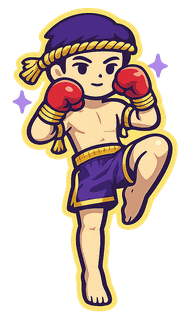
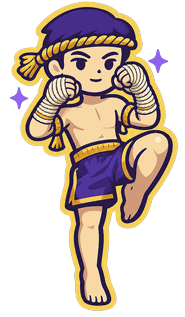
New Muay Thai artwork: traditional hand wraps, not modern gloves (sw v539)
Owner-supplied replacement. Letterboxed onto the live 185x317 canvas rather than
shipped at its own aspect (613x1085 = 0.560 vs 0.584): .fluency-img is
width:158px/height:auto, so the file ratio decides the rendered height, and
topics.html carries width="150" height="257" -- that same ratio -- to reserve the
box before decode. Native aspect would have rendered ~11px taller than the
reservation and reintroduced the layout shift those attributes exist to prevent.
The ~8px of transparent side padding is invisible; a shift is not.

15.5 KB against 16.3 KB, so the re-compression is genuinely smaller, as the
precache rule requires. 256 colours over 128 (14.9 KB) -- 0.6 KB is not worth
colour fidelity on artwork.

The VERSION bump is load-bearing: muaythai.png is in PRECACHE and precached
sub-resources have been cache-first since v292, so replacing the file without one
leaves every returning device on the old art indefinitely.

Measured in the browser, not the diff: 158.0 x 270.7 at desktop and 140.6 x 240.8
at a 386px viewport (the max-width:42% cap), ratio 0.5836 = the file ratio at both,
no horizontal overflow. The full-resolution original is kept at
"marketing images/muaythai-authentic-original.png" for the backup mirror.
test_sw_precache 26, test_sw_cachefirst 53, test_topics_page 40.

diff --git a/sw.js b/sw.js
@@ -33,7 +33,7 @@
    this is LOAD-BEARING, not just tidy: change a precached file without bumping
    and clients keep serving the old copy.
    ============================================================ */
-const VERSION = 'v538';   // v538: TWO LIVE READING-SECTION FAULTS. (1) AUDIO_VER 3 -> 4. All 210 reading clips became Andovar studio recordings on 2026-09-15 and NOBODY was told: dlDownload stores AUDIO_VER in its manifest and the hub card offers an update only when they differ, so the new audio shipped while devices kept serving cached TTS. It also fixes the edge -- an upload purges read/x.mp3 but Cloudflare keys on the query string, so read/x.mp3?v=3 kept the old bytes; a new query string misses every cache at once. ⛔ BUMP THIS ON EVERY READING-AUDIO RELEASE. (2) A fetch that never settles froze the whole course download ONE SHORT -- the pump loop does active--/pump() on every path, but a request that neither resolves nor rejects reaches none of them, so the counter stopped at 207 of 208 for ever with no error. Every clip was on R2 and returned a clean 200 when probed, which ruled the server out. dlFetchWithRetry races a 20s backstop, aborts the socket and retries 3x -- the same guard player.js's dynDlFile has had since r44 and this path never got. // v537: the guide's Thai-speed cycler line is the owner's wording -- "Didn't quite catch that? Slow down the Thai. English sentences and pause length are unaffected." The draft said "without changing its pitch", which is how the thing WORKS rather than what it is FOR: pitch preservation is the implementation's problem, not the reader's. Same class as the app-CTA copy rule -- describe the benefit, not the mechanism. // v536: Thai speed now governs an INDIVIDUAL SENTENCE TAP as well, and the guide's mock player gained the slider. A pill is the one surface where a plain <audio> playbackRate is exactly right -- the clip is the Thai ALONE, so there is no English and no pause to drag along, which is the very constraint that forced the dyn session to bake the stretch in at build time -- and it is instant, no rebuild. preservesPitch is set explicitly in all three spellings: modern browsers default it true but older WebKit honours only the prefixed name, and without it a slowed pill would drop in pitch while the same sentence in the session did not. ⚠ It applies WITHOUT waiting for a rebuild, which the owner flagged as a risk: the slider assigns dynSpeed synchronously and before dynSaveSettings/dynInvalidate, and the only other writers are boot/account-sync and dynRevertToStored (which runs only inside a build-failure catch). Pinned by test_dyn_speed.js, now 42. The old per-pill tortoise stays as an unreachable override -- it is display:none on every live page. // v535: THE THAI-SPEED STRETCH IS NOW PITCH-SYNCHRONOUS, because a FIXED hop was audibly worse on one voice: "sounds a bit robotic at 80%... not really noticeable on female voice" (owner, 2026-09-16). Measured, it is not timbre but PITCH -- a 256-sample hop is 93.8 Hz, our male talent sits at 139-162 Hz and the female at 222-229, so the artefact period sat right next to a male voice's own pitch and beat against it while a female voice masked it. The search was lopsided too: +/-256 gave a male voice only +/-1.5 pitch periods to choose a join from against +/-2.4 for a female. Every size is now derived from the clip's OWN period (hop 2P, window 4P, search 1.5P, overlap 2P), so joins are period-ALIGNED by construction and the hop rate moves away from f0. ⛔ dynPeriod() must not be "optimised": decimating it returned 170/200/126 and an unbiased NCC returned 146/190/120 where this returns 148/173/105 -- the values the approved renders were built from, and every window is a multiple of that number. Affordable because it is CACHED PER CLIP (~2.3 s once per 30-clip topic, only when the speed is not Normal). A sub-harmonic guard stops it picking an octave on cleanly periodic audio without moving any real clip's answer. test_dyn_speed.js 38. // v534: THAI SPEED, a per-unit dyn setting alongside Pauses and repeats (owner, 2026-09-16). ⛔ IT SLOWS THE THAI AND NOTHING ELSE -- never the English, never the silences -- which is WHY it cannot be an <audio> playbackRate: the dyn player plays ONE stitched file, so a rate on the element would drag the English and every pause with it. The stretch is applied per Thai buffer at BUILD time by dynStretch(), a WSOLA that overlaps and adds short windows so the pitch is untouched and only the timing moves (resampling drops the pitch with the rate -- the owner listened and rejected it outright). Steps are 1 / 0.9 / 0.8 and the slider shows no number: 0.7 and 0.75 were auditioned and rejected as smeared, so 0.8 is the floor and dynNormSet refuses anything below it. Speed joins the session key ONLY when it is not 1, so every session persisted before today stays valid. ⚠ The stretch reads st.sp, never the page-global dynSpeed -- this function builds FOREIGN units too (the prev/next chain renders a neighbour at ITS settings), and reading the global is the r214 namespace bug's shape. test_dyn_speed.js 32, and it goes red on the pre-fix source. // v533: THE UPDATE BAR STILL FLICKERED ON ANDROID after v532 -- and NOT on the iPhone PWA, on a device confirmed to be running v532 (owner, 2026-09-16). v532 guarded the one direct bar.innerHTML writer; whatever repaints on the app path is not it, and rather than guess again the hold is now UNCONDITIONAL. offBarLock is taken the moment Update is pressed and setOfflineState() -- the single painter for every state that carries a button -- refuses to paint anything but 'downloading' while it is held. That covers every caller at once instead of one route at a time. Released in FOUR places so it can never strand the bar: both of dynDownloadHere's never-started exits, its success handler and its catch. downloadingNow was the wrong thing to guard on -- it is read in half a dozen places and cleared on every exit of three download paths, so trusting it means trusting all of them. ⚠ STILL UNDIAGNOSED: what repaints on Android and not on WebKit. If it recurs, ?lat=1 reports offBarHeld (repaints suppressed) in dl:done. // v532: THE UPDATE BAR FLICKERED BACK TO ITS BUTTONS MID-DOWNLOAD, so Update could be pressed twice (owner, 2026-09-16, Android app). dynCheckAudioUpdate() paints bar.innerHTML DIRECTLY from an async .then(), so it answers to neither setOfflineState()'s idempotence guard nor renderOfflineBar()'s downloadingNow hold -- a check that started before the tap landed after it and painted Update/Delete over "5 of 50". It now stands down while a download is running. dynUpdateAudio() also LATCHES downloadingNow and paints "Downloading 0/?" the instant the button is pressed, so the progress line is up before any async work and a second press is impossible rather than merely unlikely. Both of dynDownloadHere's never-started exits (offline, nothing to fetch) now clear the latch, or they would freeze the bar at 0/? -- worse than the flicker. Same class as r210, via the one path that bypasses the shared painter. // v531: A FAILED AUDIO UPDATE COULD NOT BE RETRIED. The v530 skip left the old clips in place, and the finalize block then stamped the CURRENT audio version onto the baseline regardless -- so afterwards no surface offered the update again and only delete-and-redownload recovered it (owner, 2026-09-16, two topics stuck showing a tick). The stamp now runs only on a first download, on a prefix that was genuinely re-fetched, or when the baseline did not say anything had moved anyway; otherwise the baseline is left alone and keeps prompting. A repeated prompt is recoverable, a false "you are current" is not. // v530: THE AUDIO UPDATE PROMPT AND THE DOWNLOAD THAT ANSWERS IT ASKED DIFFERENT QUESTIONS. Owner, 2026-09-16, after the Andovar switchover: the topic page offered "Download audio update?", the button completed instantly, and the topic went on playing the superseded TTS -- while the card in the list still showed a plain tick. One cause for all three. avPick() always prefers the clip-derived `#c` key, so a device whose baseline is still legacy-scheme got a `#c` value back and avMoved() correctly read the SCHEME change as "not moved". dynCheckAudioUpdate happened to compare against the raw legacy key (map[pfx]) and so DID prompt; dynDownloadHere's force check and topics-page.js's avStale both used avPick and so did not, which is why the prompt was real and the download skipped every file as "already present" -- the r137 defect in a new disguise, reached by a different route. topics.js gains avFor(map, prefix, base): the published value in the BASELINE's own scheme, falling back to avPick when nothing in that scheme is published, so the deliberate silent re-baseline survives for the case it was built for. All four readers now use it -- player.js (prompt AND force), topics-page.js (topic cards, band pages, favourites and the grammar hub) and pl-list.js (playlist rows). Paired with the legacy keys moving for the first time since Phase 4 (refresh_legacy_stamp.py), so both generations of device are told. // v529: app-cta.js stops emitting bare `.html` links. Its three
+const VERSION = 'v539';   // v539: the Muay Thai illustration is redrawn with TRADITIONAL HAND WRAPS in place of modern gloves (owner, 2026-09-16). A bump is load-bearing and not tidiness: muaythai.png is in PRECACHE and precached sub-resources are served CACHE-FIRST since v292, so replacing the file without one leaves every returning device on the old art INDEFINITELY. ⚠ The new asset is letterboxed onto the live 185x317 canvas rather than shipped at its own aspect (613x1085 = 0.560 vs 0.584). .fluency-img sets width:158px/height:auto, so the file's intrinsic ratio decides the rendered height, and topics.html's width="150" height="257" is that same ratio reserving the box before decode -- native aspect would have rendered ~11px taller than the reservation and reintroduced the layout shift those attributes exist to prevent. The ~8px of transparent side padding is invisible; a shift is not. 15.5 KB against the old 16.3 KB, so the re-compression is genuinely smaller as the precache rule requires. // v538: TWO LIVE READING-SECTION FAULTS. (1) AUDIO_VER 3 -> 4. All 210 reading clips became Andovar studio recordings on 2026-09-15 and NOBODY was told: dlDownload stores AUDIO_VER in its manifest and the hub card offers an update only when they differ, so the new audio shipped while devices kept serving cached TTS. It also fixes the edge -- an upload purges read/x.mp3 but Cloudflare keys on the query string, so read/x.mp3?v=3 kept the old bytes; a new query string misses every cache at once. ⛔ BUMP THIS ON EVERY READING-AUDIO RELEASE. (2) A fetch that never settles froze the whole course download ONE SHORT -- the pump loop does active--/pump() on every path, but a request that neither resolves nor rejects reaches none of them, so the counter stopped at 207 of 208 for ever with no error. Every clip was on R2 and returned a clean 200 when probed, which ruled the server out. dlFetchWithRetry races a 20s backstop, aborts the socket and retries 3x -- the same guard player.js's dynDlFile has had since r44 and this path never got. // v537: the guide's Thai-speed cycler line is the owner's wording -- "Didn't quite catch that? Slow down the Thai. English sentences and pause length are unaffected." The draft said "without changing its pitch", which is how the thing WORKS rather than what it is FOR: pitch preservation is the implementation's problem, not the reader's. Same class as the app-CTA copy rule -- describe the benefit, not the mechanism. // v536: Thai speed now governs an INDIVIDUAL SENTENCE TAP as well, and the guide's mock player gained the slider. A pill is the one surface where a plain <audio> playbackRate is exactly right -- the clip is the Thai ALONE, so there is no English and no pause to drag along, which is the very constraint that forced the dyn session to bake the stretch in at build time -- and it is instant, no rebuild. preservesPitch is set explicitly in all three spellings: modern browsers default it true but older WebKit honours only the prefixed name, and without it a slowed pill would drop in pitch while the same sentence in the session did not. ⚠ It applies WITHOUT waiting for a rebuild, which the owner flagged as a risk: the slider assigns dynSpeed synchronously and before dynSaveSettings/dynInvalidate, and the only other writers are boot/account-sync and dynRevertToStored (which runs only inside a build-failure catch). Pinned by test_dyn_speed.js, now 42. The old per-pill tortoise stays as an unreachable override -- it is display:none on every live page. // v535: THE THAI-SPEED STRETCH IS NOW PITCH-SYNCHRONOUS, because a FIXED hop was audibly worse on one voice: "sounds a bit robotic at 80%... not really noticeable on female voice" (owner, 2026-09-16). Measured, it is not timbre but PITCH -- a 256-sample hop is 93.8 Hz, our male talent sits at 139-162 Hz and the female at 222-229, so the artefact period sat right next to a male voice's own pitch and beat against it while a female voice masked it. The search was lopsided too: +/-256 gave a male voice only +/-1.5 pitch periods to choose a join from against +/-2.4 for a female. Every size is now derived from the clip's OWN period (hop 2P, window 4P, search 1.5P, overlap 2P), so joins are period-ALIGNED by construction and the hop rate moves away from f0. ⛔ dynPeriod() must not be "optimised": decimating it returned 170/200/126 and an unbiased NCC returned 146/190/120 where this returns 148/173/105 -- the values the approved renders were built from, and every window is a multiple of that number. Affordable because it is CACHED PER CLIP (~2.3 s once per 30-clip topic, only when the speed is not Normal). A sub-harmonic guard stops it picking an octave on cleanly periodic audio without moving any real clip's answer. test_dyn_speed.js 38. // v534: THAI SPEED, a per-unit dyn setting alongside Pauses and repeats (owner, 2026-09-16). ⛔ IT SLOWS THE THAI AND NOTHING ELSE -- never the English, never the silences -- which is WHY it cannot be an <audio> playbackRate: the dyn player plays ONE stitched file, so a rate on the element would drag the English and every pause with it. The stretch is applied per Thai buffer at BUILD time by dynStretch(), a WSOLA that overlaps and adds short windows so the pitch is untouched and only the timing moves (resampling drops the pitch with the rate -- the owner listened and rejected it outright). Steps are 1 / 0.9 / 0.8 and the slider shows no number: 0.7 and 0.75 were auditioned and rejected as smeared, so 0.8 is the floor and dynNormSet refuses anything below it. Speed joins the session key ONLY when it is not 1, so every session persisted before today stays valid. ⚠ The stretch reads st.sp, never the page-global dynSpeed -- this function builds FOREIGN units too (the prev/next chain renders a neighbour at ITS settings), and reading the global is the r214 namespace bug's shape. test_dyn_speed.js 32, and it goes red on the pre-fix source. // v533: THE UPDATE BAR STILL FLICKERED ON ANDROID after v532 -- and NOT on the iPhone PWA, on a device confirmed to be running v532 (owner, 2026-09-16). v532 guarded the one direct bar.innerHTML writer; whatever repaints on the app path is not it, and rather than guess again the hold is now UNCONDITIONAL. offBarLock is taken the moment Update is pressed and setOfflineState() -- the single painter for every state that carries a button -- refuses to paint anything but 'downloading' while it is held. That covers every caller at once instead of one route at a time. Released in FOUR places so it can never strand the bar: both of dynDownloadHere's never-started exits, its success handler and its catch. downloadingNow was the wrong thing to guard on -- it is read in half a dozen places and cleared on every exit of three download paths, so trusting it means trusting all of them. ⚠ STILL UNDIAGNOSED: what repaints on Android and not on WebKit. If it recurs, ?lat=1 reports offBarHeld (repaints suppressed) in dl:done. // v532: THE UPDATE BAR FLICKERED BACK TO ITS BUTTONS MID-DOWNLOAD, so Update could be pressed twice (owner, 2026-09-16, Android app). dynCheckAudioUpdate() paints bar.innerHTML DIRECTLY from an async .then(), so it answers to neither setOfflineState()'s idempotence guard nor renderOfflineBar()'s downloadingNow hold -- a check that started before the tap landed after it and painted Update/Delete over "5 of 50". It now stands down while a download is running. dynUpdateAudio() also LATCHES downloadingNow and paints "Downloading 0/?" the instant the button is pressed, so the progress line is up before any async work and a second press is impossible rather than merely unlikely. Both of dynDownloadHere's never-started exits (offline, nothing to fetch) now clear the latch, or they would freeze the bar at 0/? -- worse than the flicker. Same class as r210, via the one path that bypasses the shared painter. // v531: A FAILED AUDIO UPDATE COULD NOT BE RETRIED. The v530 skip left the old clips in place, and the finalize block then stamped the CURRENT audio version onto the baseline regardless -- so afterwards no surface offered the update again and only delete-and-redownload recovered it (owner, 2026-09-16, two topics stuck showing a tick). The stamp now runs only on a first download, on a prefix that was genuinely re-fetched, or when the baseline did not say anything had moved anyway; otherwise the baseline is left alone and keeps prompting. A repeated prompt is recoverable, a false "you are current" is not. // v530: THE AUDIO UPDATE PROMPT AND THE DOWNLOAD THAT ANSWERS IT ASKED DIFFERENT QUESTIONS. Owner, 2026-09-16, after the Andovar switchover: the topic page offered "Download audio update?", the button completed instantly, and the topic went on playing the superseded TTS -- while the card in the list still showed a plain tick. One cause for all three. avPick() always prefers the clip-derived `#c` key, so a device whose baseline is still legacy-scheme got a `#c` value back and avMoved() correctly read the SCHEME change as "not moved". dynCheckAudioUpdate happened to compare against the raw legacy key (map[pfx]) and so DID prompt; dynDownloadHere's force check and topics-page.js's avStale both used avPick and so did not, which is why the prompt was real and the download skipped every file as "already present" -- the r137 defect in a new disguise, reached by a different route. topics.js gains avFor(map, prefix, base): the published value in the BASELINE's own scheme, falling back to avPick when nothing in that scheme is published, so the deliberate silent re-baseline survives for the case it was built for. All four readers now use it -- player.js (prompt AND force), topics-page.js (topic cards, band pages, favourites and the grammar hub) and pl-list.js (playlist rows). Paired with the legacy keys moving for the first time since Phase 4 (refresh_legacy_stamp.py), so both generations of device are told. // v529: app-cta.js stops emitting bare `.html` links. Its three
                           // hrefs -- the app card (x2) and "Create a free account" -- were
                           // raw, so every click paid a Cloudflare Pages 308 (127-1315 ms,
                           // cf-cache-status DYNAMIC) before the target began loading. It was
